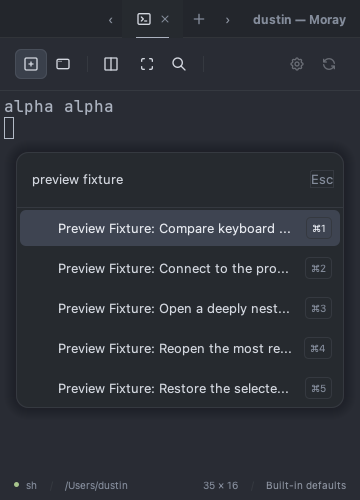
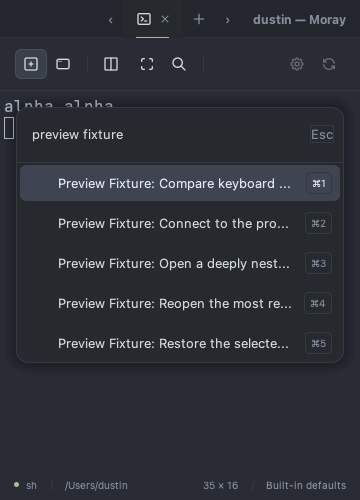
fix: position command palette in upper half

diff --git a/moray-app/src/main/java/dev/moray/app/WindowCommandPalette.java b/moray-app/src/main/java/dev/moray/app/WindowCommandPalette.java
@@ -146,13 +146,14 @@ final class WindowCommandPalette implements AutoCloseable {
         overlay.doLayout(); overlay.repaint();
     }
 
-    static Rectangle centered(Rectangle terminal, Dimension preferred, Rectangle available, int margin) {
+    static Rectangle positioned(Rectangle terminal, Dimension preferred, Rectangle available, int margin) {
         int insetX = Math.min(margin, Math.max(0, available.width / 2));
         int insetY = Math.min(margin, Math.max(0, available.height / 2));
         int width = Math.min(preferred.width, Math.max(0, available.width - 2 * insetX));
         int height = Math.min(preferred.height, Math.max(0, available.height - 2 * insetY));
         int x = terminal.x + (terminal.width - width) / 2;
-        int y = terminal.y + (terminal.height - height) / 2;
+        // Anchor the card in the upper half while keeping clearance in small windows.
+        int y = terminal.y + terminal.height / 3 - height / 2;
         x = Math.max(available.x + insetX, Math.min(x, available.x + available.width - insetX - width));
         y = Math.max(available.y + insetY, Math.min(y, available.y + available.height - insetY - height));
         return new Rectangle(x, y, width, height);
@@ -194,7 +195,7 @@ final class WindowCommandPalette implements AutoCloseable {
             Rectangle available = terminal;
             if (terminal.height < palette.getPreferredSize().height + UIScale.scale(32))
                 available = SwingUtilities.convertRectangle(owner.getParent(), owner.getBounds(), this);
-            palette.setBounds(centered(terminal, palette.getPreferredSize(), available, UIScale.scale(16)));
+            palette.setBounds(positioned(terminal, palette.getPreferredSize(), available, UIScale.scale(16)));
         }
         @Override protected void paintComponent(Graphics graphics) {
             if (!open) return;

diff --git a/moray-app/src/test/java/dev/moray/app/WindowCommandPaletteTest.java b/moray-app/src/test/java/dev/moray/app/WindowCommandPaletteTest.java
@@ -26,7 +26,7 @@ class WindowCommandPaletteTest {
             @Override public void actionPerformed(ActionEvent event) { run.run(); }
         }, List.of());
     }
-    @Test void overlayDoesNotResizeTerminalAndUsesWholeDeckCenter() throws Exception {
+    @Test void overlayDoesNotResizeTerminalAndUsesUpperThirdOfWholeDeck() throws Exception {
         DesktopTestSupport.edt(() -> {
             try (var owner = owner(new CommandHistory())) {
                 var root = install(owner); var before = owner.tabStrip().getBounds();
@@ -35,7 +35,7 @@ class WindowCommandPaletteTest {
                 var palette = owner.commandPalette().component();
                 var deck = SwingUtilities.convertRectangle(owner.tabStrip().getParent(), before, palette.getParent());
                 assertThat(Math.abs(palette.getBounds().getCenterX() - deck.getCenterX())).isLessThanOrEqualTo(1);
-                assertThat(Math.abs(palette.getBounds().getCenterY() - deck.getCenterY())).isLessThanOrEqualTo(1);
+                assertThat(Math.abs(palette.getBounds().getCenterY() - (deck.y + deck.height / 3.0))).isLessThanOrEqualTo(1);
                 owner.setActive(false); assertThat(owner.commandPalette().isOpen()).isFalse();
             }
         });

diff --git a/docs/STATUS.md b/docs/STATUS.md
@@ -1,5 +1,7 @@
 # Moray — Status and Handoff
 
+**Palette placement follow-up (2026-09-13):** Moved the card upward at the user's request: its center targets one-third of the way down the terminal area, retaining horizontal centering and small-window clearance clamps. The updated position assertion failed before the change; all 15 palette integration tests pass afterward. Regenerated the 24-image theme/state matrix and separate 2× UI-scale artifact; representative normal/narrow renders were inspected. This is a focused follow-up to the full verification below; native GUI checks remain user-run.
+
 **Command palette implementation (2026-09-12):** Complete and independently reviewed on `codex/command-palette-design` in `.worktrees/command-palette`, branched from main `1db31b1`; the main checkout remains unchanged. Cmd/Ctrl+K opens the centered themed palette, Cmd/Ctrl+1–5 runs numbered results, and three shared recents persist across restarts. Commands register through window-owned Swing actions without a plugin framework. All six task gates and final whole-branch/scoped review are complete through runtime fix `28a7ff0`. Final review corrected selected-result visibility after query/reorder changes in short scrolled cards; two actual-viewport regressions reproduced the defect before the fix. Fresh `./gradlew check --rerun-tasks` executed all eight tasks: 661 tests, 660 passed, one existing font skip, zero failures/errors. Actual purple/classic/light renders and separate 2× UI scaling were inspected; matching-only medians were 18.3–93.9 µs over 1,000 indexed commands. Branch-wide diff checks and source hygiene passed after temporary-report cleanup. [Guide and extension example](command-palette.md), [visuals, measurements and review record](design/command-palette/README.md), [plan](superpowers/plans/2026-09-12-moray-command-palette.md), [native acceptance checklist](superpowers/plans/2026-09-12-moray-command-palette-manual-check.md). Native focus, IME, accessibility, Windows desktop and real restart acceptance remain user-run. No GUI, packaging, merge or push.
 
 **Default purple theme (2026-09-12):** `moray-dark-purple` now supplies the default app chrome and terminal colors, including the dark half of Follow System. Explicit `moray-dark` remains classic; `moray-light` is unchanged. Custom files keep their existing fixed classic palette inheritance. Source defaults, generated config template, root example and documentation are updated. `./gradlew check` executed both modules: 585 tests, 584 passed and one existing font skip. Actual purple/classic/light Swing + ANSI previews were rendered headlessly and inspected; independent review found no actionable issues. The Mac app/DMG was rebuilt and package verification passed with the official Eclipse icon. The user has approved merging the completed icon/theme work into `main` and publishing it to `origin`. No live settings, GUI or installation changes were performed. [Palette and rendered UI](design/moray-dark-purple/README.md).

diff --git a/docs/design/command-palette/README.md b/docs/design/command-palette/README.md
@@ -31,7 +31,7 @@ out its labels at the final paint width, and it showed the Escape hint stretched
 through the full input row. Focused component regressions reproduced both issues.
 The renderer now lays out at paint time and a transparent wrapper centers a compact
 Escape hint. The regenerated matrix has visible titles and badges, preserves badges
-before truncating narrow titles, stays centered, and has readable selection and
+before truncating narrow titles, stays horizontally centered in the upper half, and has readable selection and
 muted text in purple, classic dark and light.
 
 Native focus, IME behavior, accessibility announcements, window deactivation and
@@ -112,3 +112,10 @@ expanded into baseline cleanup.
 - correct blanket typed-event swallowing if an intervening fresh foreign press proves the recipe consumes unrelated input — preserve both owned-tail containment and window-scoped fresh input — requires a small provenance state and regression, with native sequence acceptance still pending.
 - permit an EDT roster of installed window palette dispatch owners to give callback-free owned tails priority over any new owner action — KFM registration order must not let an older destination execute a held key from a newer source — adds bounded shared dispatcher bookkeeping requiring cleanup and multi-window regression coverage.
 - restore selected-row visibility after result rebuild and updated layout, including query reset and availability reorder — approved small-window behavior overrides the recipe omission — adds bounded layout/scroll work on result changes, verified by actual viewport regressions.
+
+## Placement adjustment — 2026-09-13
+
+The user requested a higher position. The card now targets one-third of the way
+down the full terminal area with its vertical center, while retaining horizontal
+centering and the existing small-window clearance clamps. The PNGs and separate
+2× UI-scale artifact were regenerated for this placement.

diff --git a/docs/superpowers/specs/2026-09-12-moray-command-palette-design.md b/docs/superpowers/specs/2026-09-12-moray-command-palette-design.md
@@ -10,7 +10,7 @@ This user-requested design brings the palette forward from the Phase 1 spec's la
 
 ## Confirmed requirements
 
-- A floating, Spotlight-like text box matching Moray's aesthetic, centered in the terminal window.
+- A floating, Spotlight-like text box matching Moray's aesthetic, horizontally centered in the upper half of the terminal window (placement updated by the user on 2026-09-13).
 - Default activation with Cmd+K on macOS and Ctrl+K elsewhere.
 - Commands register throughout the app and execute through the palette. Include toolbar capabilities, vertical/horizontal splits, new window and Settings.
 - Search shows at most five results, numbered 1–5.
@@ -40,7 +40,7 @@ This is internal application functionality, without a public binary compatibilit
 
 ## Placement and visual treatment
 
-Placement is the center of the selected tab's whole terminal pane area, across all splits, excluding title/tabs, toolbar and status bar. It does not center on the focused split or physical display. Keep the card centered on resize and as its result count changes.
+Placement is horizontally centered across the selected tab's whole terminal pane area, across all splits, excluding title/tabs, toolbar and status bar. Following the user's 2026-09-13 adjustment, anchor the card's vertical center one-third of the way down that area, subject to the existing small-window clearance clamps. It does not anchor on the focused split or physical display. Recompute placement on resize and as its result count changes.
 
 Use a lightweight Swing overlay owned by `WindowContent`, above existing content, without reparenting terminal views or changing layout/PTY dimensions. Do not create a separate native window. Outside clicks dismiss and are consumed, preventing click-through into terminal applications.
 

diff --git a/docs/superpowers/plans/2026-09-12-moray-command-palette.md b/docs/superpowers/plans/2026-09-12-moray-command-palette.md
@@ -20,6 +20,8 @@
 
 **Final review correction:** The original `setResults` recipe reset or preserved selection without revealing it in a previously scrolled short card. `28a7ff0` performs bounded scroll-pane/viewport layout using the updated result count, then reveals the selected row. Real query-reset, preserved-ID reorder and result-growth regressions failed before the fix and passed afterward (27 covering tests). Final full-check evidence is 365 app tests and 296 terminal tests, including one existing font skip. Scoped review approved; no findings remain open.
 
+**2026-09-13 placement follow-up:** The user requested the upper half instead of the vertical center. The current implementation targets the card's center at one-third of the terminal area's height while preserving horizontal centering and small-window clamps; this supersedes the original Task 4 Y-coordinate recipe below.
+
 ## Global Constraints
 
 - Java 25 on the **JetBrains Runtime** (JBR) 25. Use `./gradlew`, never system Gradle.
